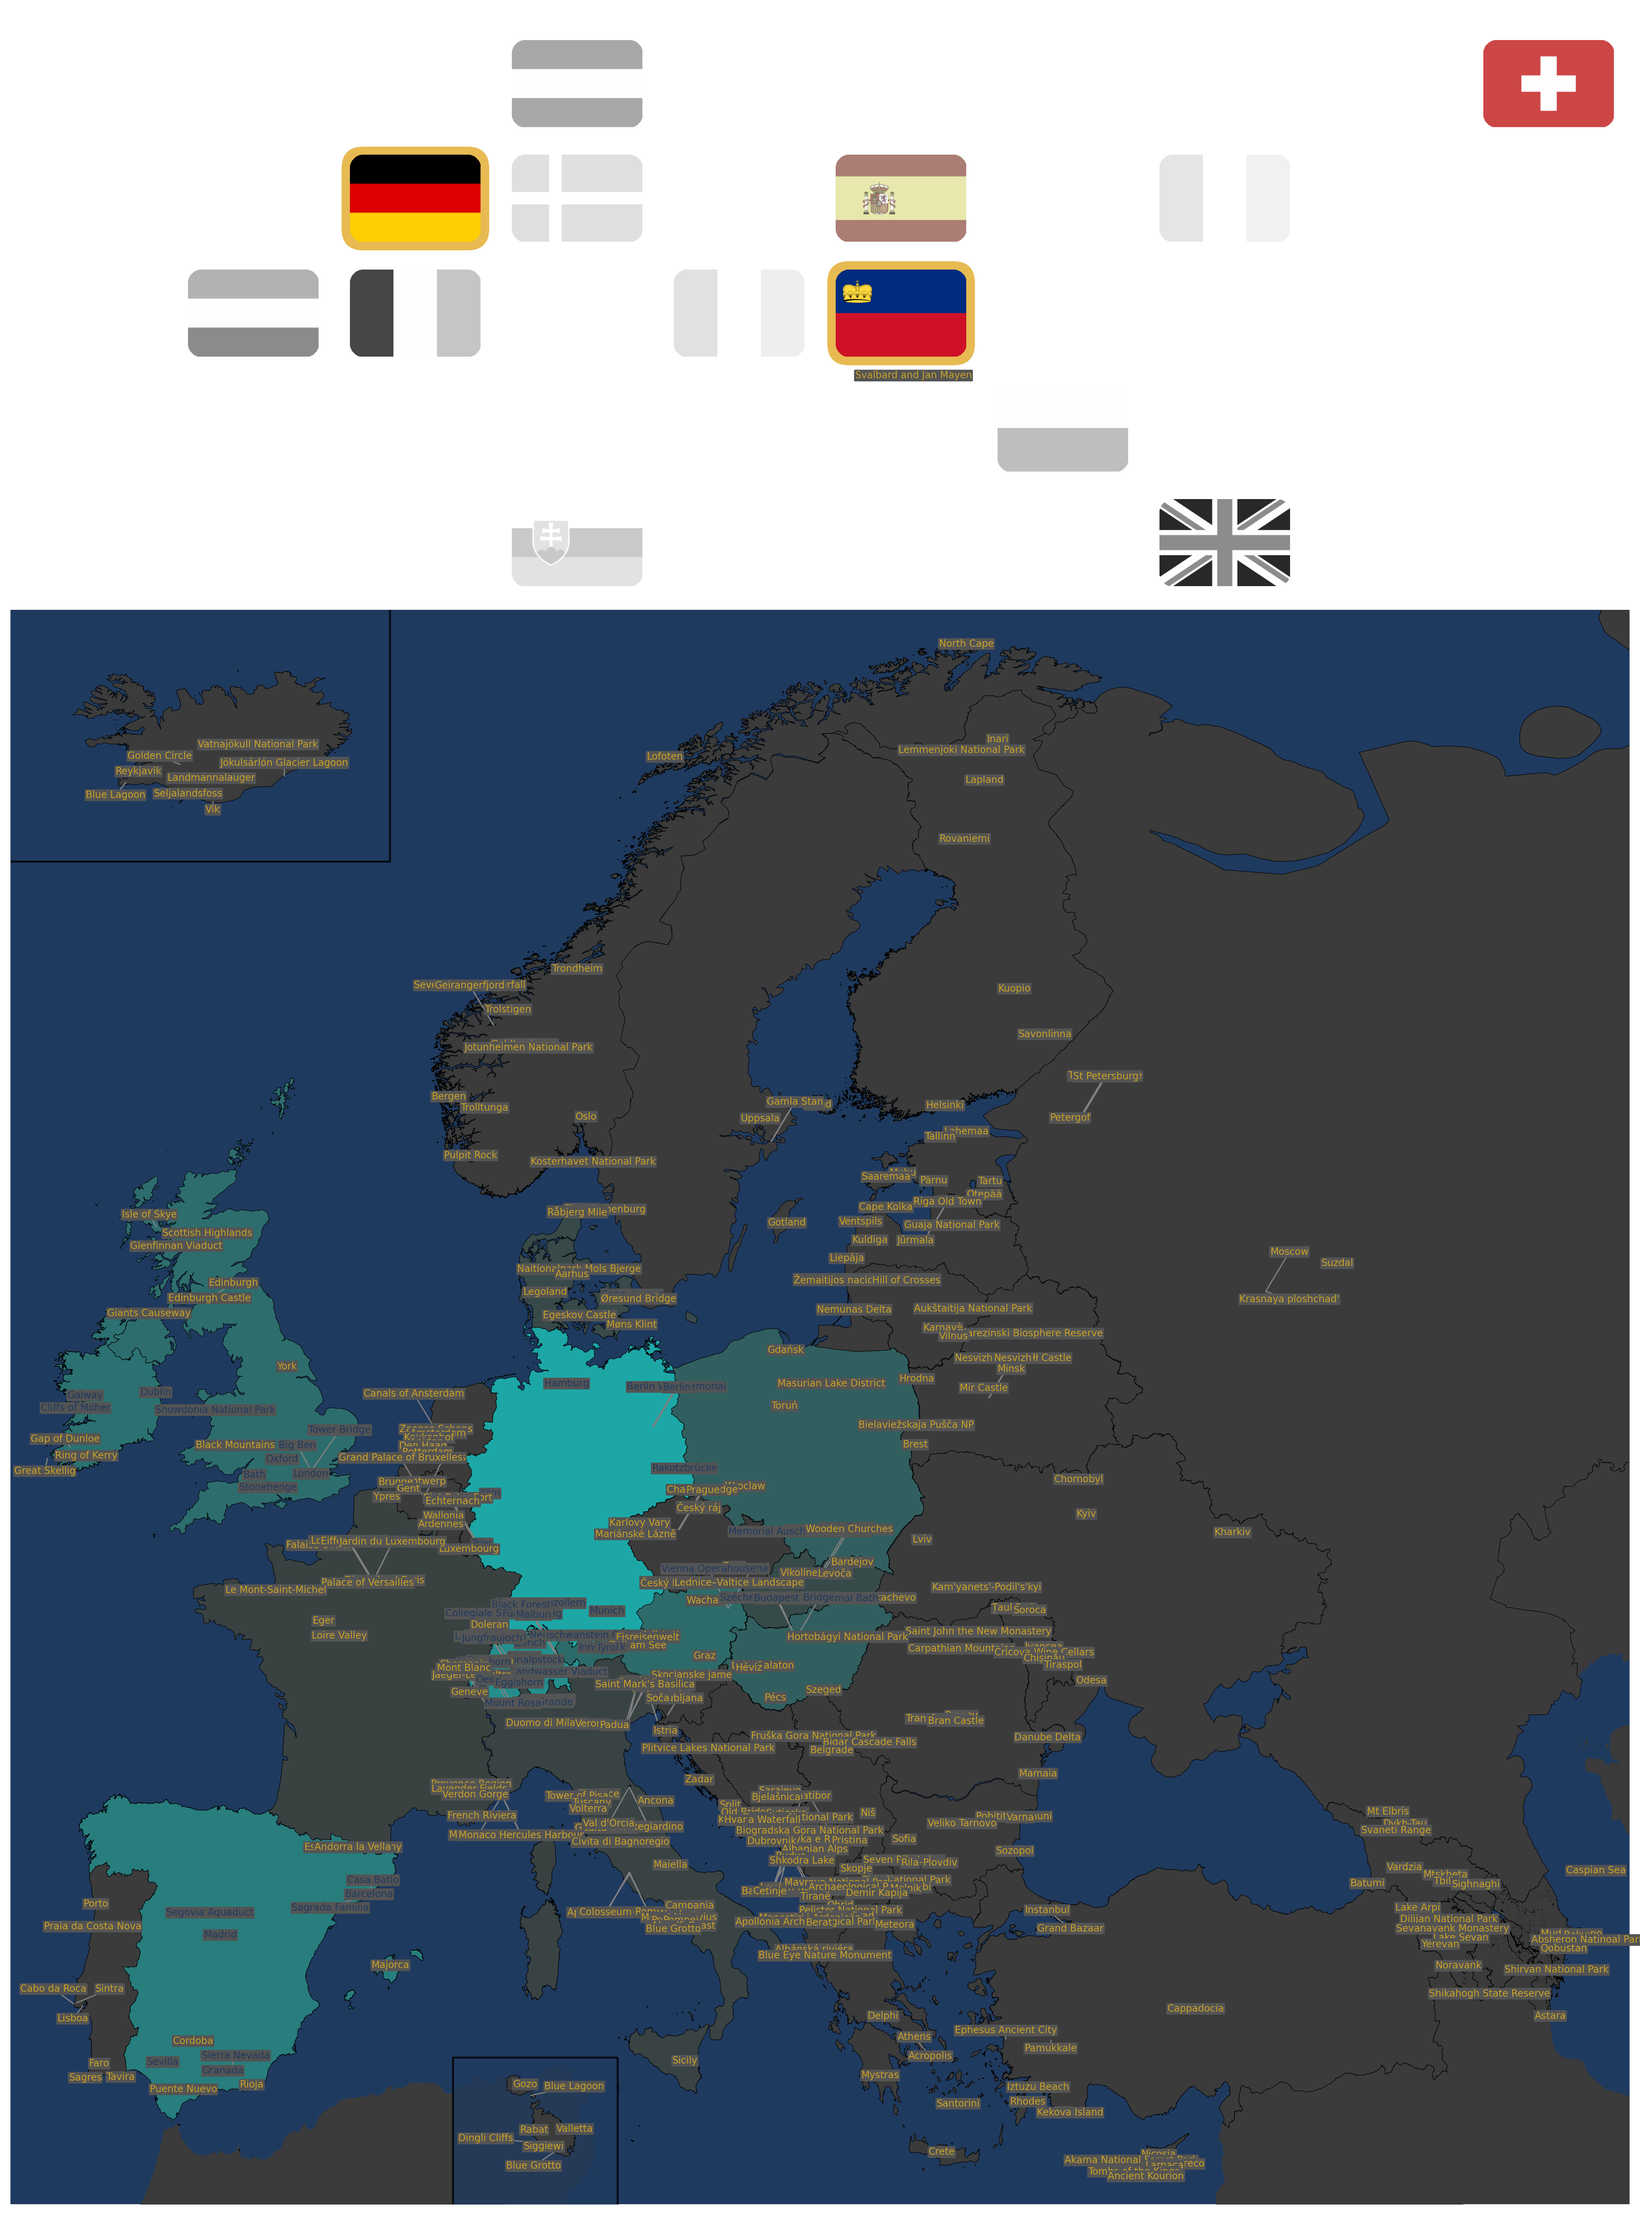
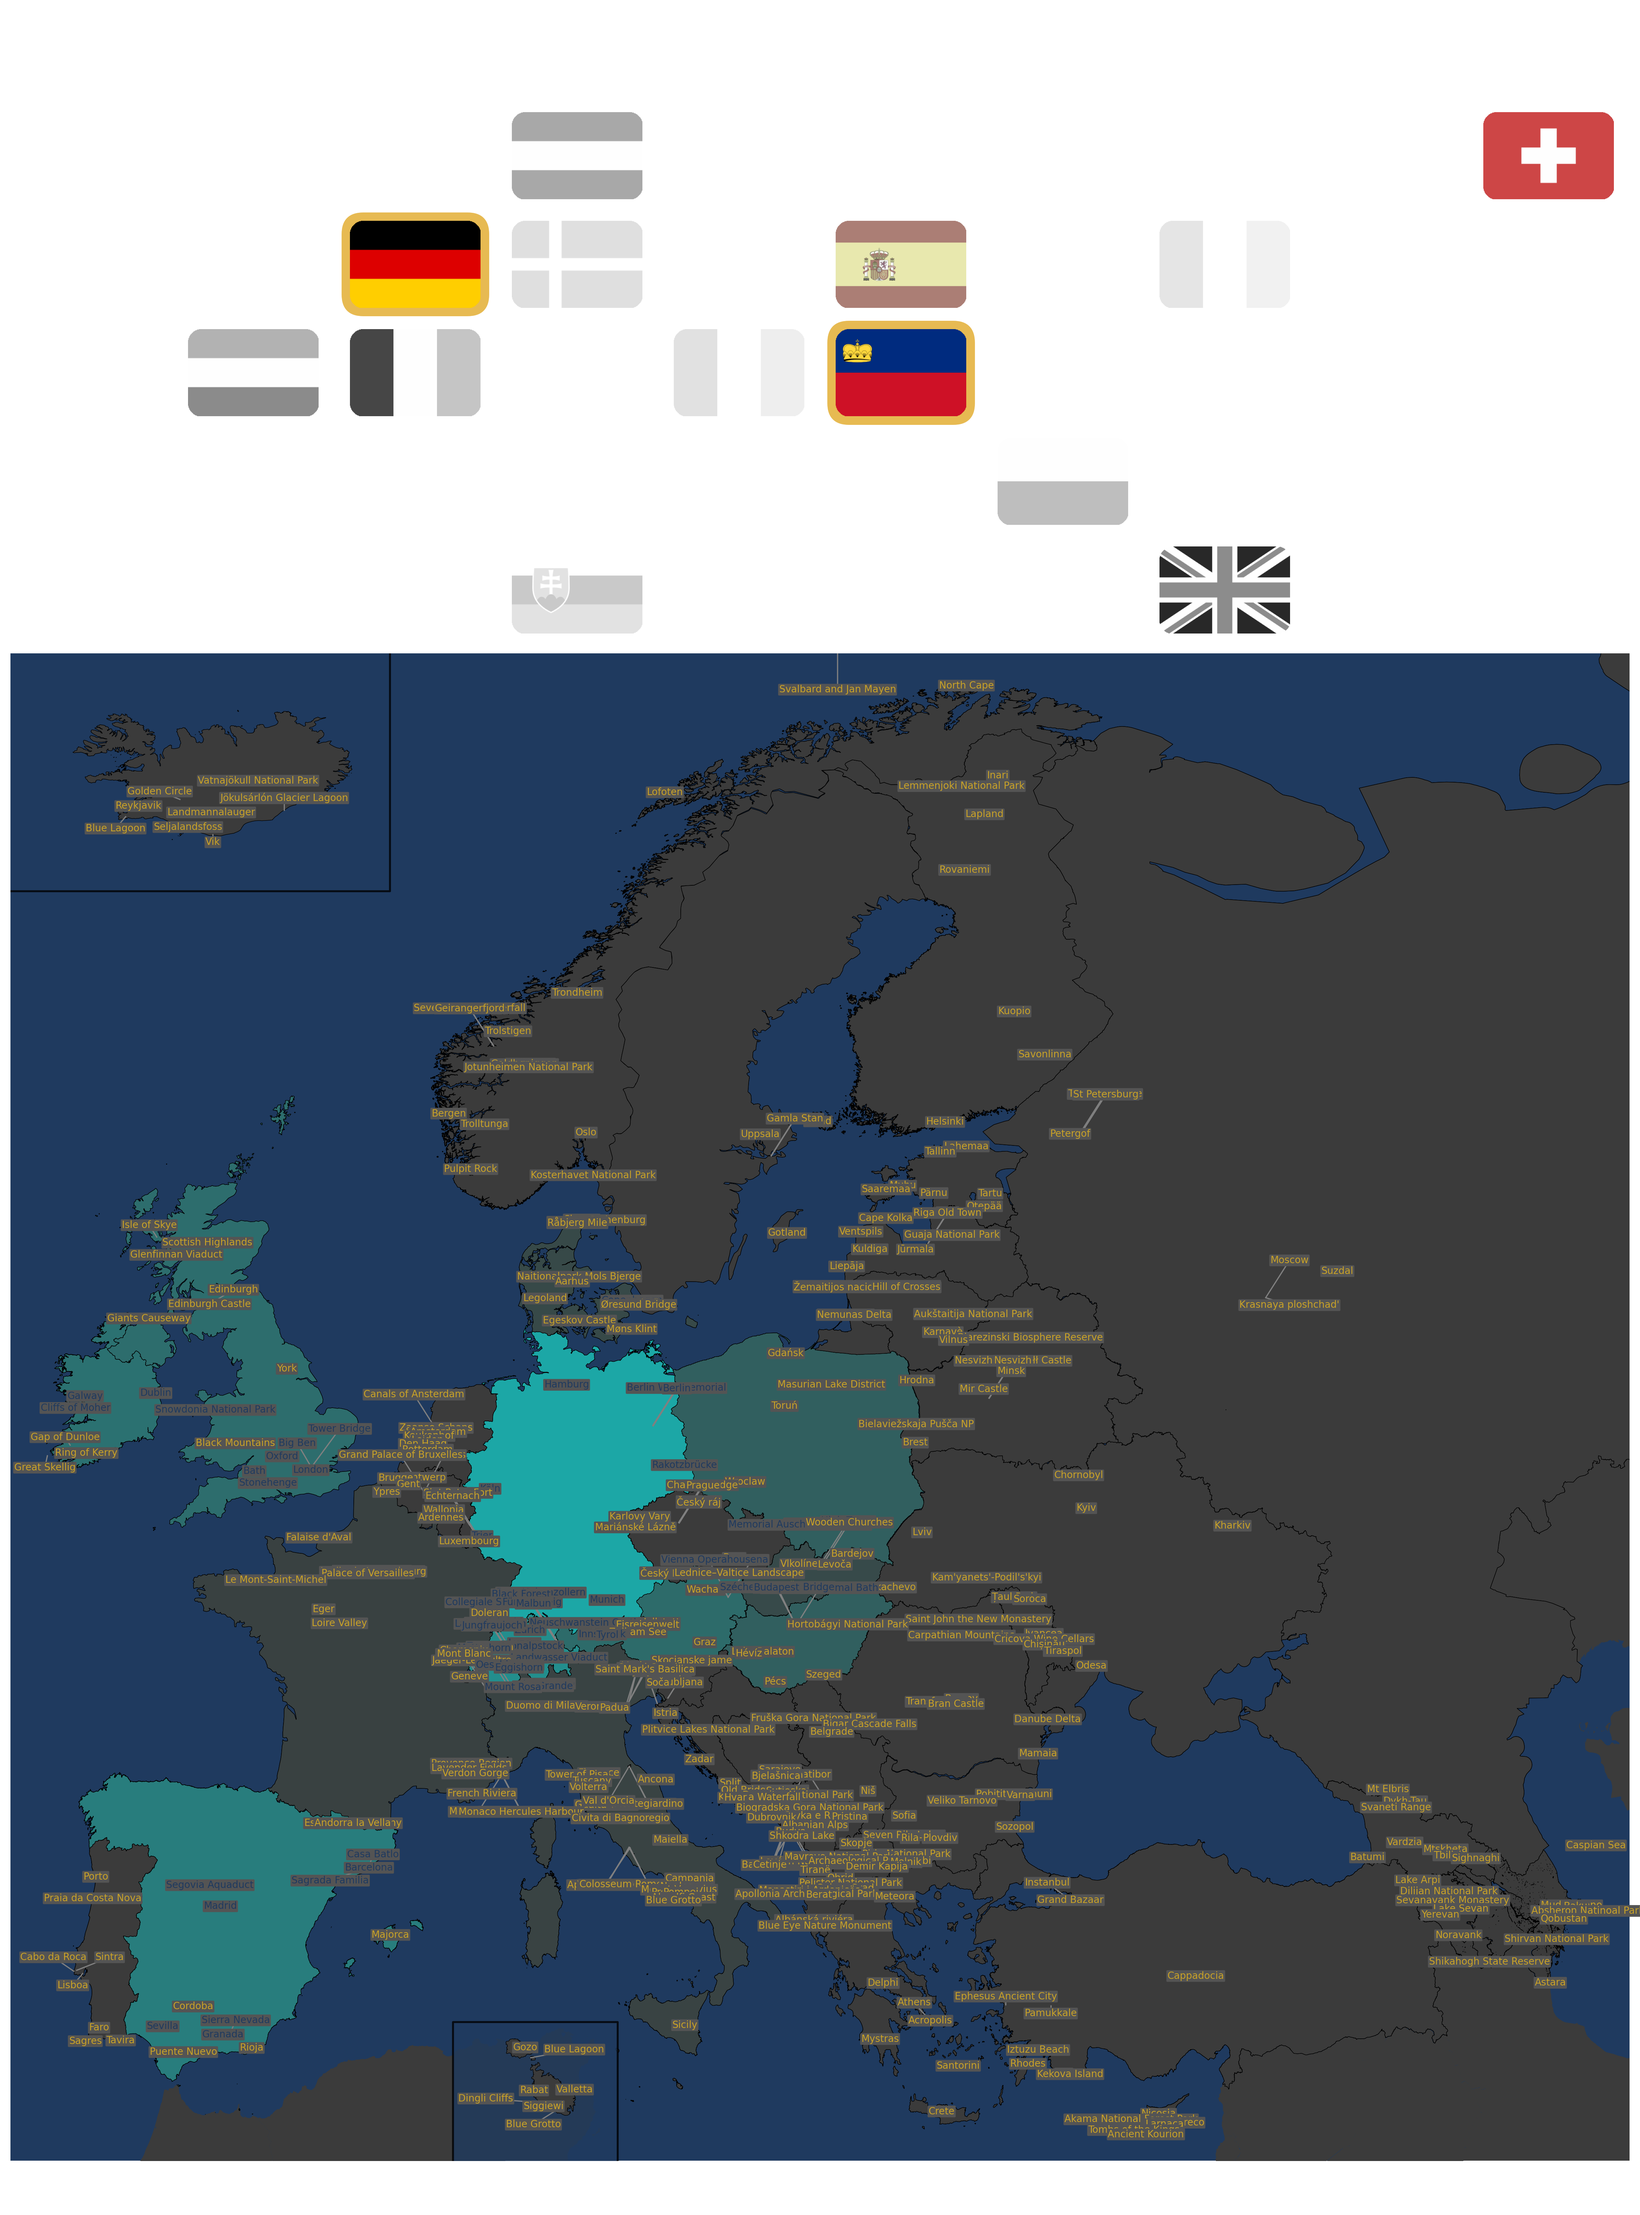
update plotting for breakout maps

diff --git a/plotting/plotting_manager.py b/plotting/plotting_manager.py
@@ -138,8 +138,8 @@ class PlotManager:
             self.ratios[submap["Name"]] = ratio
             color = CustomCmap(self.map_dark, self.map_light).value(ratio)
 
-            if submap["Retain"]:
-                submap_gdf.plot(ax=ax, edgecolor="black", linewidth=1/self.plot_scale, color=color, alpha=1)
+            #if submap["Retain"]:
+            submap_gdf.plot(ax=ax, edgecolor="black", linewidth=1/self.plot_scale, color=color, alpha=1)
 
             # Scale and Shift Map
             submap_gdf["geometry"] = submap_gdf["geometry"].apply(
